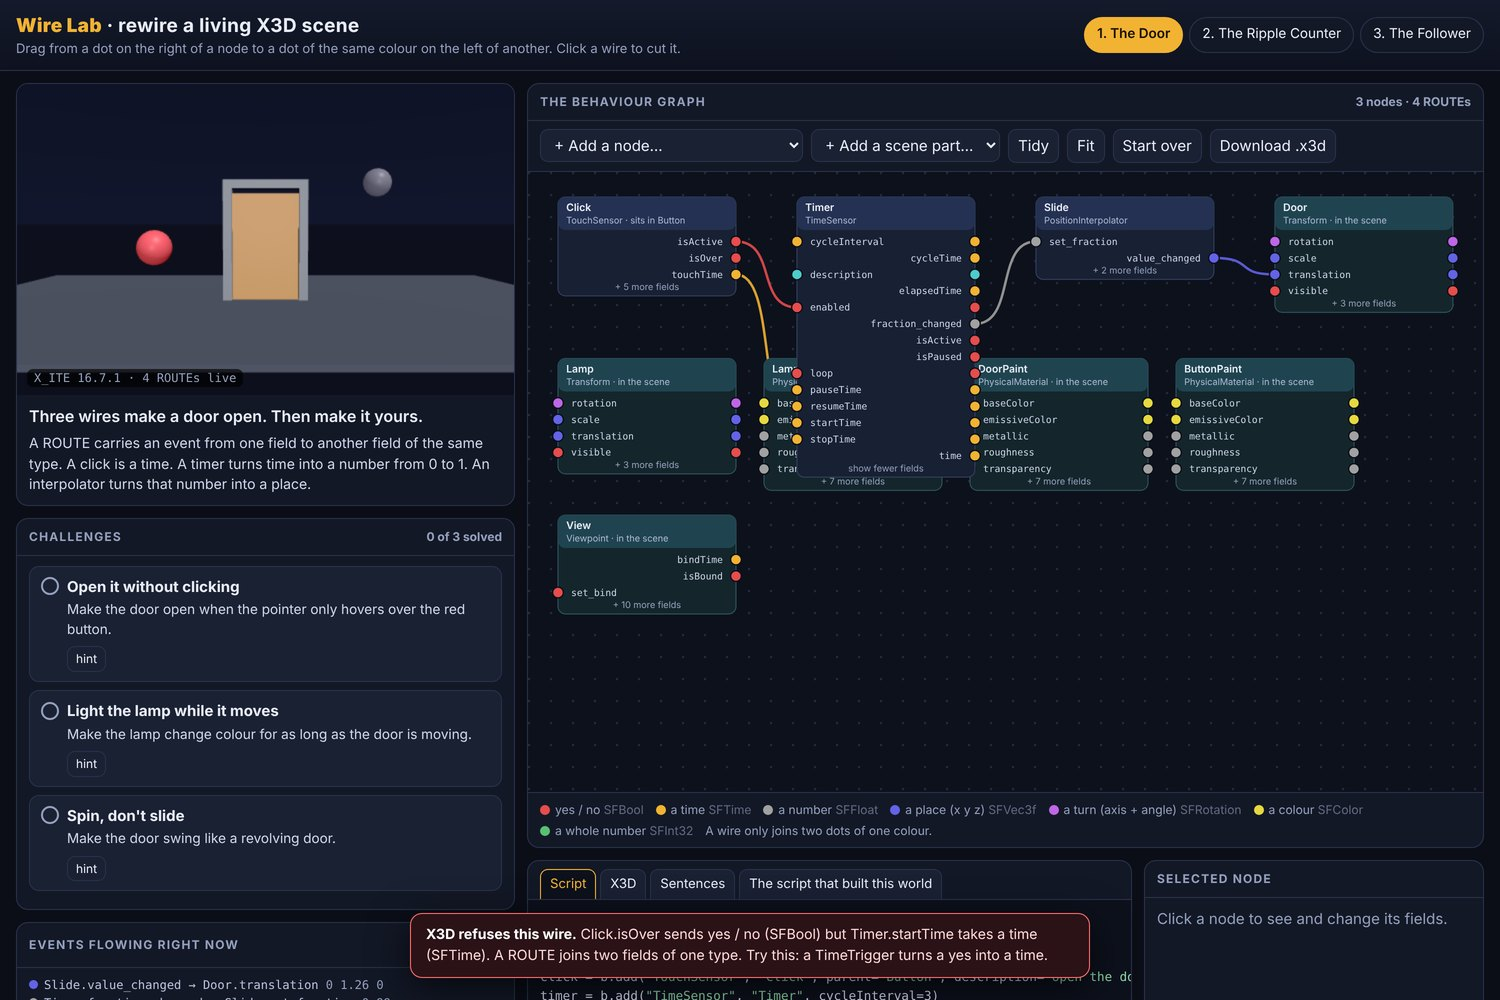
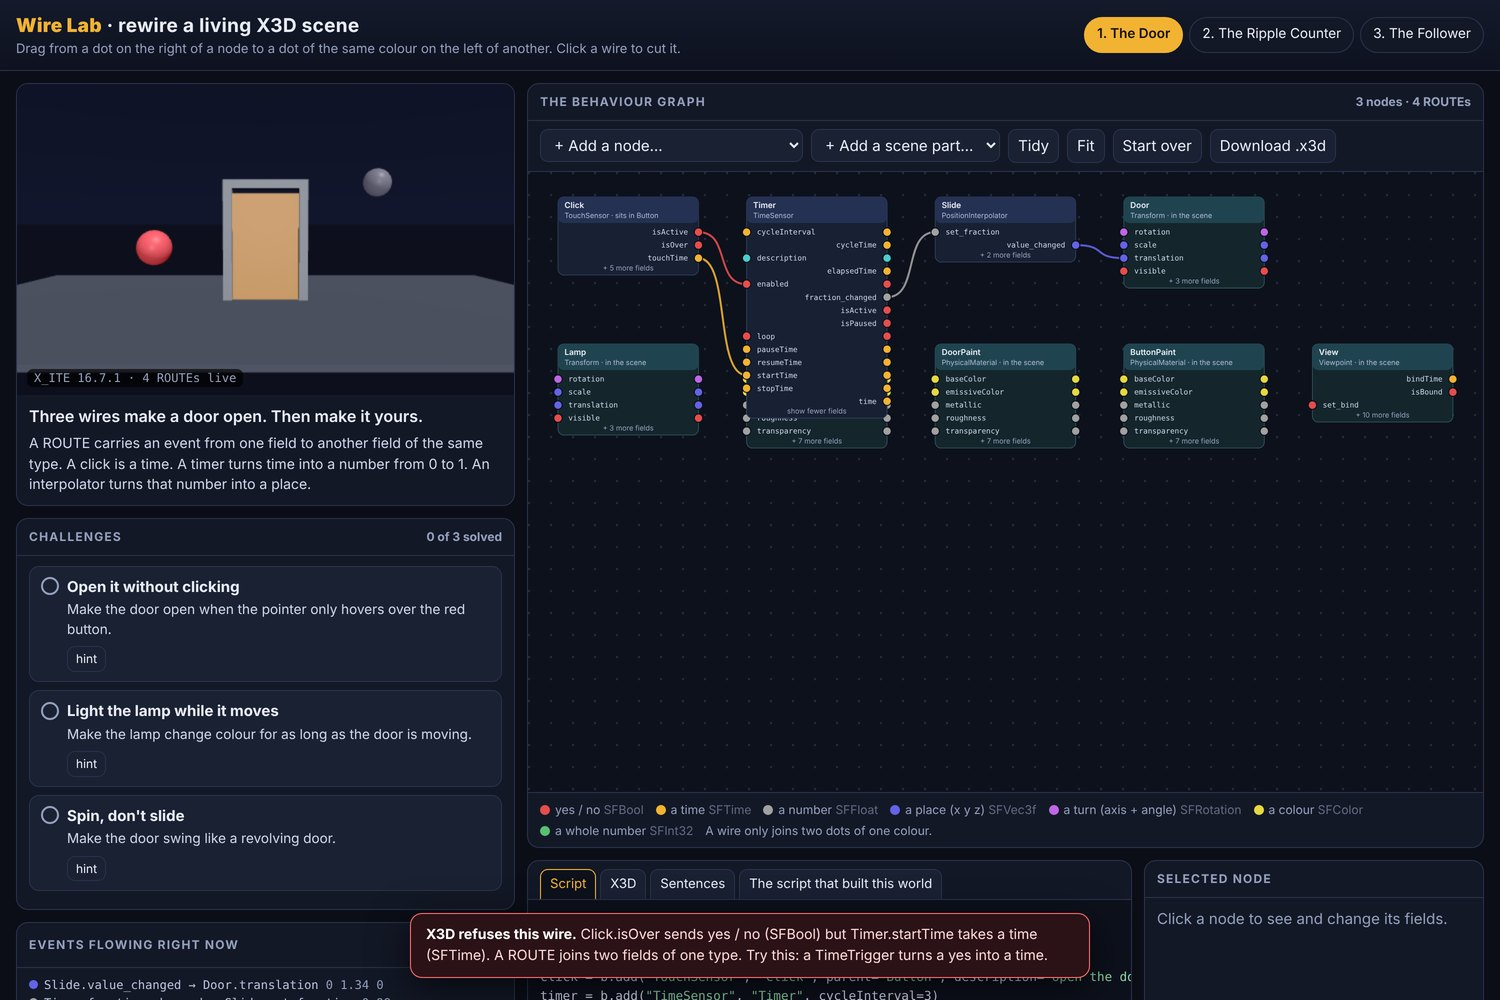
Wire Lab: long chains wrap into bands so the graph stays readable; screenshots redone

Changed region(s): [[0.368, 0.186, 0.9813, 0.589], [0.368, 0.589, 0.46, 0.62]]

diff --git a/docs/demos/wire-lab/v1/index.html b/docs/demos/wire-lab/v1/index.html
@@ -237,7 +237,7 @@ const curve = (a, b) => { const d = Math.max(50, Math.abs(b.x - a.x) * .5); retu
 function fit() {
   const box = $('graph').getBoundingClientRect(); let x0 = 1e9, y0 = 1e9, x1 = -1e9, y1 = -1e9;
   for (const n of graph.nodes.values()) { const [x, y] = [n.position?.[0] || 0, -(n.position?.[1] || 0)]; x0 = Math.min(x0, x); y0 = Math.min(y0, y); x1 = Math.max(x1, x + W); y1 = Math.max(y1, y + HEAD + shown(n).length * ROW + 20); }
-  view.k = Math.min(1.15, (box.width - 60) / (x1 - x0), (box.height - 50) / (y1 - y0));
+  view.k = Math.max(0.5, Math.min(1.15, (box.width - 60) / (x1 - x0), (box.height - 50) / (y1 - y0)));
   view.x = 30 - x0 * view.k + Math.max(0, (box.width - 60 - (x1 - x0) * view.k) / 2); view.y = 25 - y0 * view.k;
   draw();
 }
@@ -352,10 +352,18 @@ const dropPoint = () => { const b = svg.getBoundingClientRect(); return [(b.widt
 $('addNode').addEventListener('change', e => { if (!e.target.value) return; const n = graph.add(e.target.value, null, { position: dropPoint() }); if (cat.isPlaced(n.type)) { const first = world.scene.match(/<Transform DEF="([^"]+)"/); if (first) n.parent = first[1]; } selected = n.id; e.target.value = ''; changed(); });
 $('addTarget').addEventListener('change', e => { const p = sceneParts.find(s => s.id === e.target.value); if (!p) return; graph.nodes.set(p.id, { id: p.id, type: p.type, role: 'target', fields: {}, binding: ['def', p.id], position: dropPoint() }); selected = p.id; changed(); });
 function arrange() {
-  const wired = new Set(graph.routes.flatMap(r => [r[0], r[2]])), pos = layout(graph, 290, 150);
-  let low = 0, col = {}, i = 0;
-  for (const n of graph.nodes.values()) if (wired.has(n.id)) { const c = pos[n.id][0]; col[c] = (col[c] || 0); n.position = [c, -col[c]]; col[c] += HEAD + shown(n).length * ROW + 46; low = Math.max(low, col[c]); }
-  for (const n of graph.nodes.values()) if (!wired.has(n.id)) { n.position = [(i % 4) * 250, -(low + 30 + Math.floor(i / 4) * 190)]; i++; }
+  // wired nodes in columns left to right, at most 5 columns to a band, then the next band below; unwired scene parts last
+  const wired = new Set(graph.routes.flatMap(r => [r[0], r[2]])), pos = layout(graph, 1, 1), PER = 5;
+  const height = n => HEAD + shown(n).length * ROW + 46, bands = {};
+  for (const n of graph.nodes.values()) if (wired.has(n.id)) { const c = pos[n.id][0], band = Math.floor(c / PER); ((bands[band] ||= {})[c % PER] ||= []).push(n); }
+  let top = 0;
+  for (const band of Object.keys(bands).map(Number).sort((a, b) => a - b)) {
+    let tall = 0;
+    for (const [c, nodes] of Object.entries(bands[band])) { let y = top; for (const n of nodes) { n.position = [c * 290, -y]; y += height(n); } tall = Math.max(tall, y - top); }
+    top += tall + 40;
+  }
+  let i = 0;
+  for (const n of graph.nodes.values()) if (!wired.has(n.id)) { n.position = [(i % PER) * 290, -(top + 20 + Math.floor(i / PER) * 190)]; i++; }
 }
 $('tidy').addEventListener('click', () => { arrange(); save(); fit(); });
 $('fit').addEventListener('click', fit);
